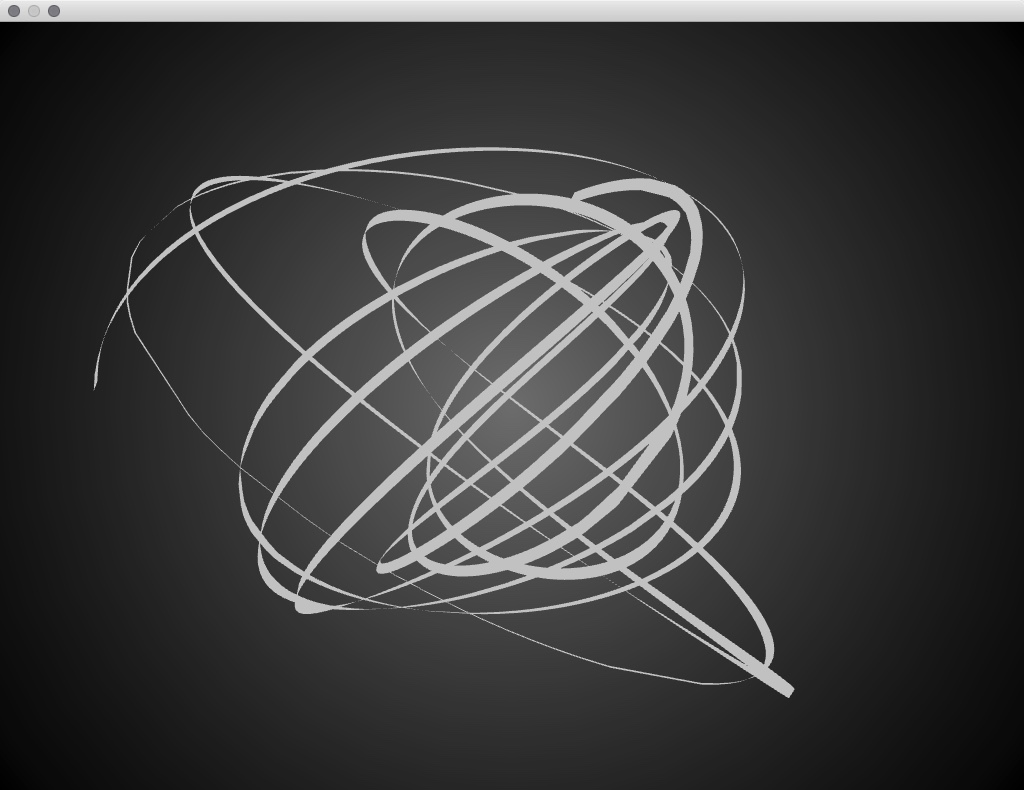
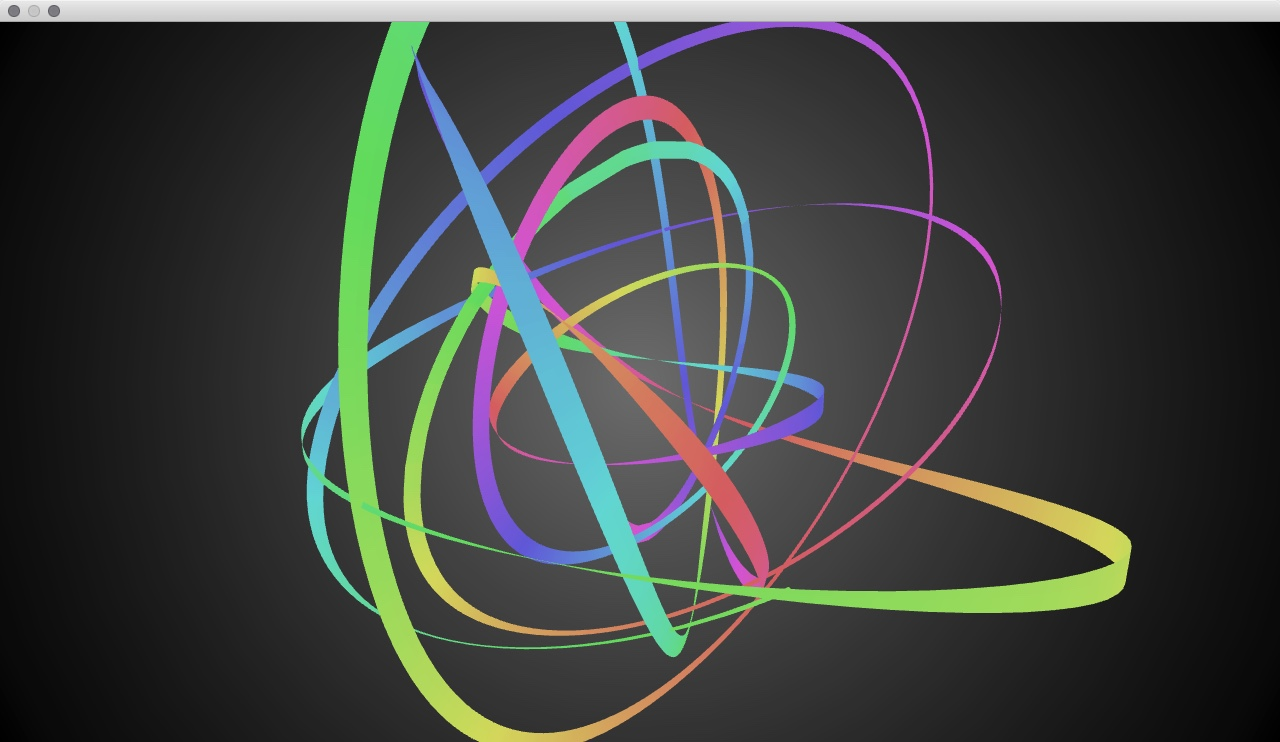
change image

diff --git a/example-color/src/ofApp.cpp b/example-color/src/ofApp.cpp
@@ -15,7 +15,7 @@ void ofApp::update(){
     position.y  = sin(ofGetElapsedTimef() * speed * 1.3) * radius;
     ofColor color;
     int hue = int(ofGetElapsedTimef() * 100) % 255;
-    color.setHsb(hue, 120, 160);
+    color.setHsb(hue, 120, 220);
     ribbon->update(position, color);
 }
 
